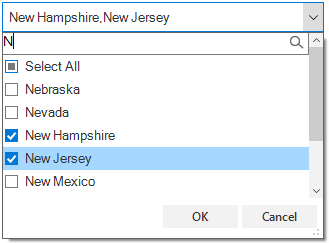
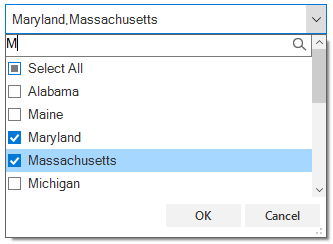
Image modified

Changed region(s): [[0.0, 0.0, 1.0, 1.0], [0.7903, 0.8642, 0.9119, 0.9218], [0.5775, 0.8642, 0.6383, 0.9218]]

diff --git a/WindowsForms/SfComboBox/DropDown.md b/WindowsForms/SfComboBox/DropDown.md
@@ -168,7 +168,7 @@ internal class CustomHeaderUserControl : Panel
 
     private bool FilterItem(object data)
     {
-        if ((data as USState).LongName.ToLower().StartsWith(this.TextBox.Text.ToLower()))
+        if ((data as USState).LongName.ToLower().Contains(this.TextBox.Text.ToLower()))
             return true;
         return false;
     }
@@ -305,7 +305,7 @@ Me.sfComboBox1.DropDownListView.HeaderControl = customTextBox
 	End Sub
 	
 	Private Function FilterItem(ByVal data As Object) As Boolean
-		If (TryCast(data, USState)).LongName.ToLower().StartsWith(Me.TextBox.Text.ToLower()) Then
+		If (TryCast(data, USState)).LongName.ToLower().Contains(Me.TextBox.Text.ToLower()) Then
 			Return True
 		End If
 		Return False

diff --git a/WindowsForms/SfListView/HeaderFooter.md b/WindowsForms/SfListView/HeaderFooter.md
@@ -164,7 +164,7 @@ internal class CustomHeaderUserControl : Panel
 
     private bool FilterItem(object data)
     {
-        if ((data as USState).LongName.ToLower().StartsWith(this.TextBox.Text.ToLower()))
+        if ((data as USState).LongName.ToLower().Contains(this.TextBox.Text.ToLower()))
             return true;
         return false;
     }
@@ -286,7 +286,7 @@ Friend Class CustomHeaderUserControl
 
 	
 	Private Function FilterItem(ByVal data As Object) As Boolean
-		If (TryCast(data, USState)).LongName.ToLower().StartsWith (Me.TextBox.Text.ToLower()) Then
+		If (TryCast(data, USState)).LongName.ToLower().Contains(Me.TextBox.Text.ToLower()) Then
 			Return True
 		End If
 		Return False
